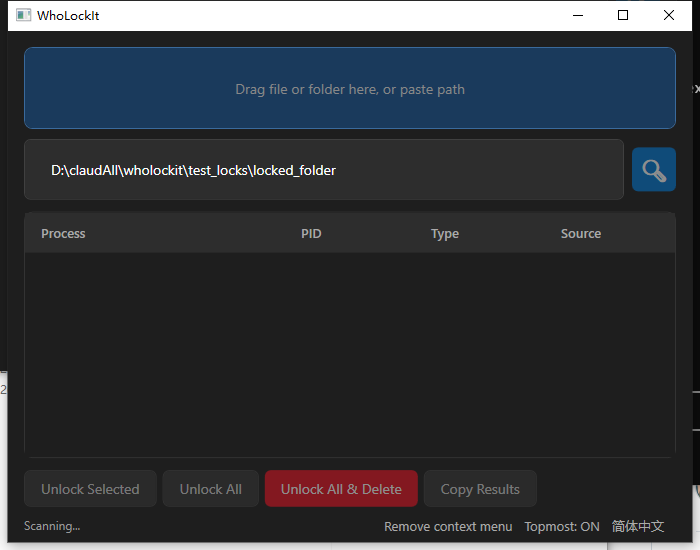
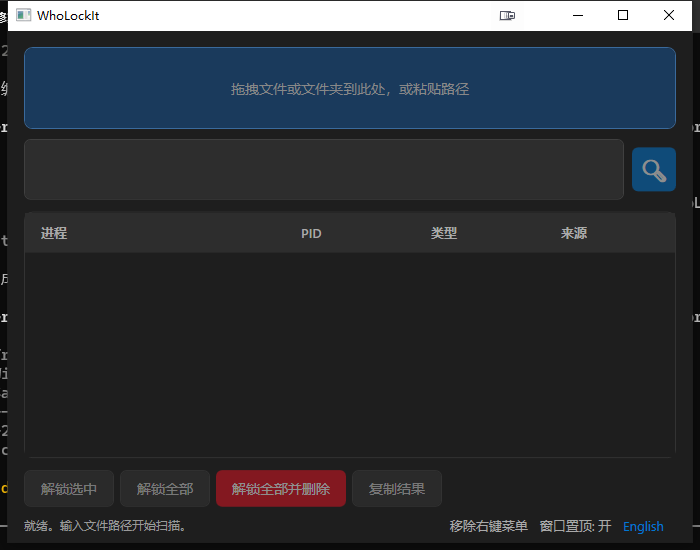
Fix language switching not updating button texts and column headers
Root cause: LocalizationService did not implement INotifyPropertyChanged,
so XAML bindings directly to the indexer (UnlockSelected_Button, etc.)
were never notified on culture change. Also fixed two hardcoded English
strings (Copied, timeout) that were not localized.

diff --git a/WhoLockIt/Services/LocalizationService.cs b/WhoLockIt/Services/LocalizationService.cs
@@ -1,10 +1,11 @@
+using System.ComponentModel;
 using System.Globalization;
 using System.IO;
 using System.Resources;
 
 namespace WhoLockIt.Services;
 
-public class LocalizationService
+public class LocalizationService : INotifyPropertyChanged
 {
     private static LocalizationService? _instance;
     public static LocalizationService Instance => _instance ??= new();
@@ -13,6 +14,7 @@ public class LocalizationService
     private CultureInfo _currentCulture;
 
     public event Action? CultureChanged;
+    public event PropertyChangedEventHandler? PropertyChanged;
 
     private LocalizationService()
     {
@@ -42,6 +44,7 @@ public class LocalizationService
                 CultureInfo.CurrentCulture = value;
                 SaveCulture(value.Name);
                 CultureChanged?.Invoke();
+                PropertyChanged?.Invoke(this, new PropertyChangedEventArgs("Item[]"));
             }
         }
     }

diff --git a/WhoLockIt/ViewModels/MainViewModel.cs b/WhoLockIt/ViewModels/MainViewModel.cs
@@ -149,7 +149,7 @@ public class MainViewModel : INotifyPropertyChanged
         }
         catch (OperationCanceledException)
         {
-            StatusText = LocalizationService.Instance["Status_Scanning"] + " (timeout)";
+            StatusText = LocalizationService.Instance["Scan_Timeout"];
         }
         catch (Exception ex)
         {
@@ -248,7 +248,7 @@ public class MainViewModel : INotifyPropertyChanged
         var text = string.Join(Environment.NewLine,
             Locks.Select(l => $"{l.ProcessName}\tPID:{l.Pid}\t{l.LockType}\t{l.Source}"));
         Clipboard.SetText(text);
-        StatusText = "Copied";
+        StatusText = LocalizationService.Instance["Copy_Results"];
     }
 
     private void ToggleContextMenu()